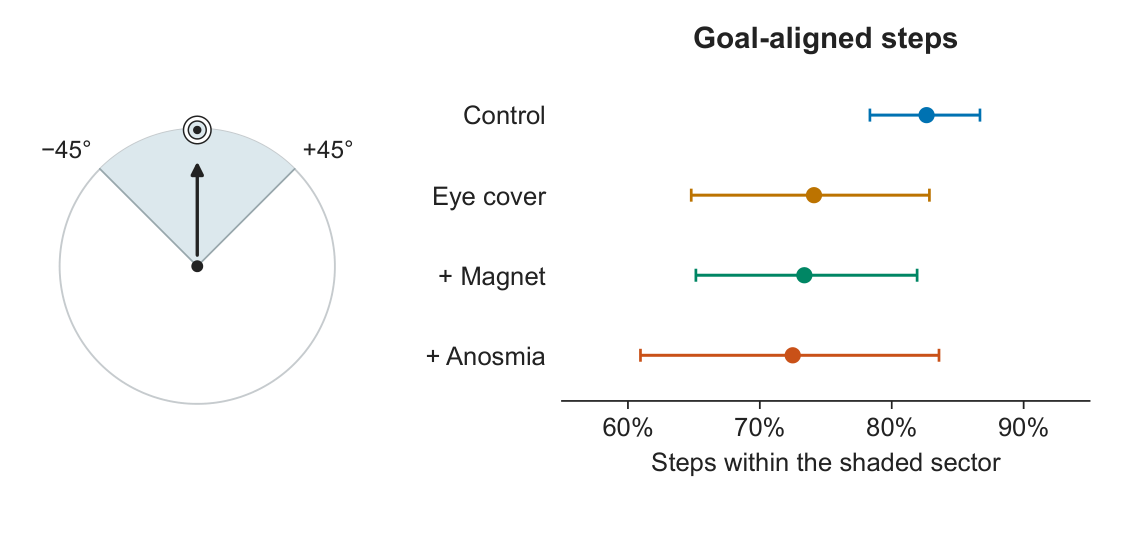
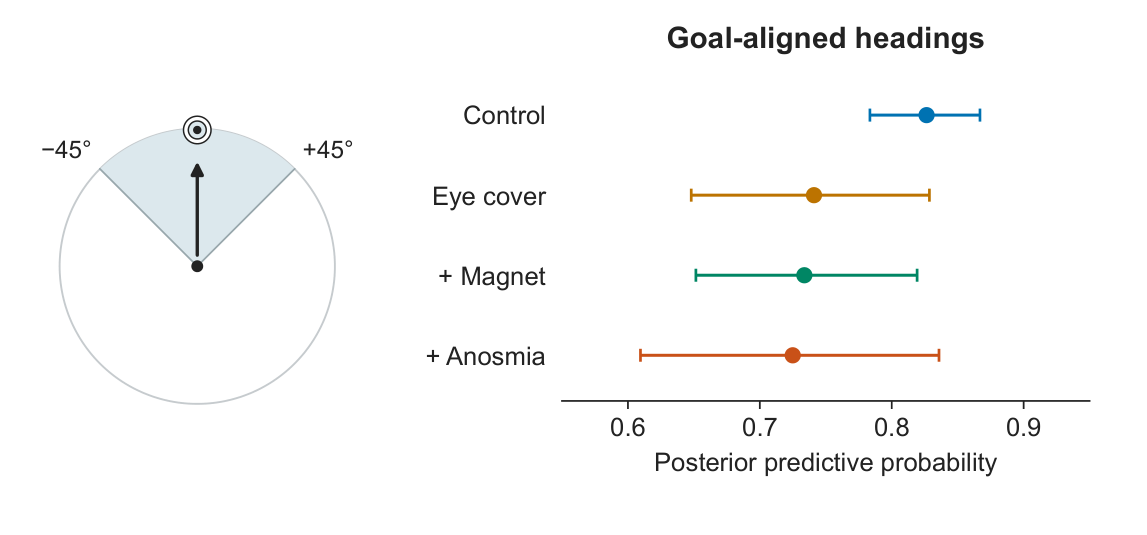
Label goal alignment as posterior predictive probability

Changed region(s): [[0.5187, 0.7776, 0.8849, 0.8972], [0.5798, 0.0299, 0.8544, 0.1196], [0.8544, 0.7776, 0.9154, 0.8374]]

diff --git a/notebooks/goldshtein_bats_layout_review.py b/notebooks/goldshtein_bats_layout_review.py
@@ -11,7 +11,7 @@ mpl.use("Agg")
 import matplotlib.pyplot as plt
 from matplotlib.collections import LineCollection
 from matplotlib.patches import Circle, Wedge
-from matplotlib.ticker import MultipleLocator, PercentFormatter
+from matplotlib.ticker import MultipleLocator, StrMethodFormatter
 import numpy as np
 from PIL import Image
 import pymupdf
@@ -215,7 +215,7 @@ def draw_composite(data, *, photo_path=None):
 
 
 def draw_goal_window(data):
-    """Define the sector visually and compare the four treatment groups."""
+    """Compare posterior predictive probability for bearings within the sector."""
     fig = plt.figure(figsize=(5.9, 2.75), facecolor='white')
     diagram = fig.add_axes([.022, .14, .30, .76], aspect='equal')
     diagram.set(xlim=(-1.25, 1.25), ylim=(-1.06, 1.20))
@@ -241,13 +241,13 @@ def draw_goal_window(data):
         axis.errorbar(mean, row, xerr=[[mean-lo], [hi-mean]], color=PALETTE[row],
                       fmt='o', ms=5, elinewidth=1.1, capsize=2.4, capthick=1.0)
     axis.set(xlim=(.55, .95), ylim=(3.57, -.57), yticks=range(4),
-             yticklabels=LABELS, xlabel='Steps within the shaded sector')
+             yticklabels=LABELS, xlabel='Posterior predictive probability')
     axis.spines[['left', 'top', 'right']].set_visible(False)
     axis.xaxis.set_major_locator(MultipleLocator(.10))
-    axis.xaxis.set_major_formatter(PercentFormatter(1, decimals=0))
+    axis.xaxis.set_major_formatter(StrMethodFormatter('{x:.1f}'))
     axis.tick_params(axis='y', length=0, pad=6)
     axis.tick_params(axis='x', length=3, width=.65, pad=3)
-    axis.set_title('Goal-aligned steps', weight='bold', fontsize=11, pad=8)
+    axis.set_title('Goal-aligned headings', weight='bold', fontsize=11, pad=8)
     return fig
 
 

diff --git a/assets/goldshtein-bats-layout-review/README.md b/assets/goldshtein-bats-layout-review/README.md
@@ -5,9 +5,10 @@ all 67 flight trajectories. The bottom row shows absolute step-level PSIS-LOO
 ELPD with one SE per model, posterior directedness over remaining path distance,
 and full vMU density at 0° relative to control.
 
-The goal-window figure shows the full vMU predictive probability within ±45°
-of the goal for each of the four arms. Points and whiskers show posterior
-means and 95% HDIs. The separate eye-cover sensitivity plot compares the
+The goal-window figure integrates the full vMU predictive heading density
+from −45° to +45° relative to the goal for each posterior draw. Points and
+whiskers show posterior means and 95% HDIs for that probability by treatment.
+The separate eye-cover sensitivity plot compares the
 eye-cover-only arm with control across angular windows. The figures evaluate
 the fitted group parameters with individual offsets set to zero. The JSON
 records draw-wise contrasts and the pooled contrast across the three groups
